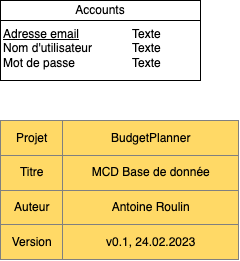
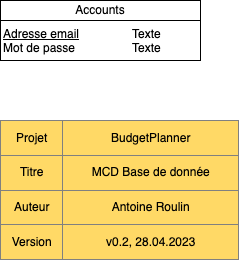
feat: modifications of all file of the documentation to delete the notion of username and quick fix a test that was not passing for the cause of suppression of the notion of username

Changed region(s): [[0.0, 0.1533, 0.8458, 0.3372], [0.5833, 0.8889, 0.7, 0.9502], [0.4958, 0.8889, 0.5542, 0.9502]]

diff --git a/tests/unit/testUserService.php b/tests/unit/testUserService.php
@@ -160,7 +160,14 @@ class testUserService extends TestCase
 
     public function testCheckRegister_NotMeetDatabaseRequirementThrown_Success() : void {
         //Given
-        $this->userTestData['userEmail'] = '5JeJMu3kn3JHgApatT9YqyUjCMPD7PaE7aycDhtRdnzQPtqBad212'; //Email of exactly 53 char, database expect max of 50 char
+        //Email of exactly 330 char, database expect max of 319 char for an email.
+        $this->userTestData['userEmail'] =
+            '
[2 lines of base64/hex data omitted]
+            NR9k4g42aMjYuzn7eptgamqruErz7KtLCRzCEBcrevmSPvn6ucF69KueUdH89sNK5tBrmRZGr7kBuUDPSuxG7NqMrN3cNr8xapPkWUvxaV@
+            gmail.com
+            ';
         //When
         //Then
         $this->expectException(RegisterException::class);
